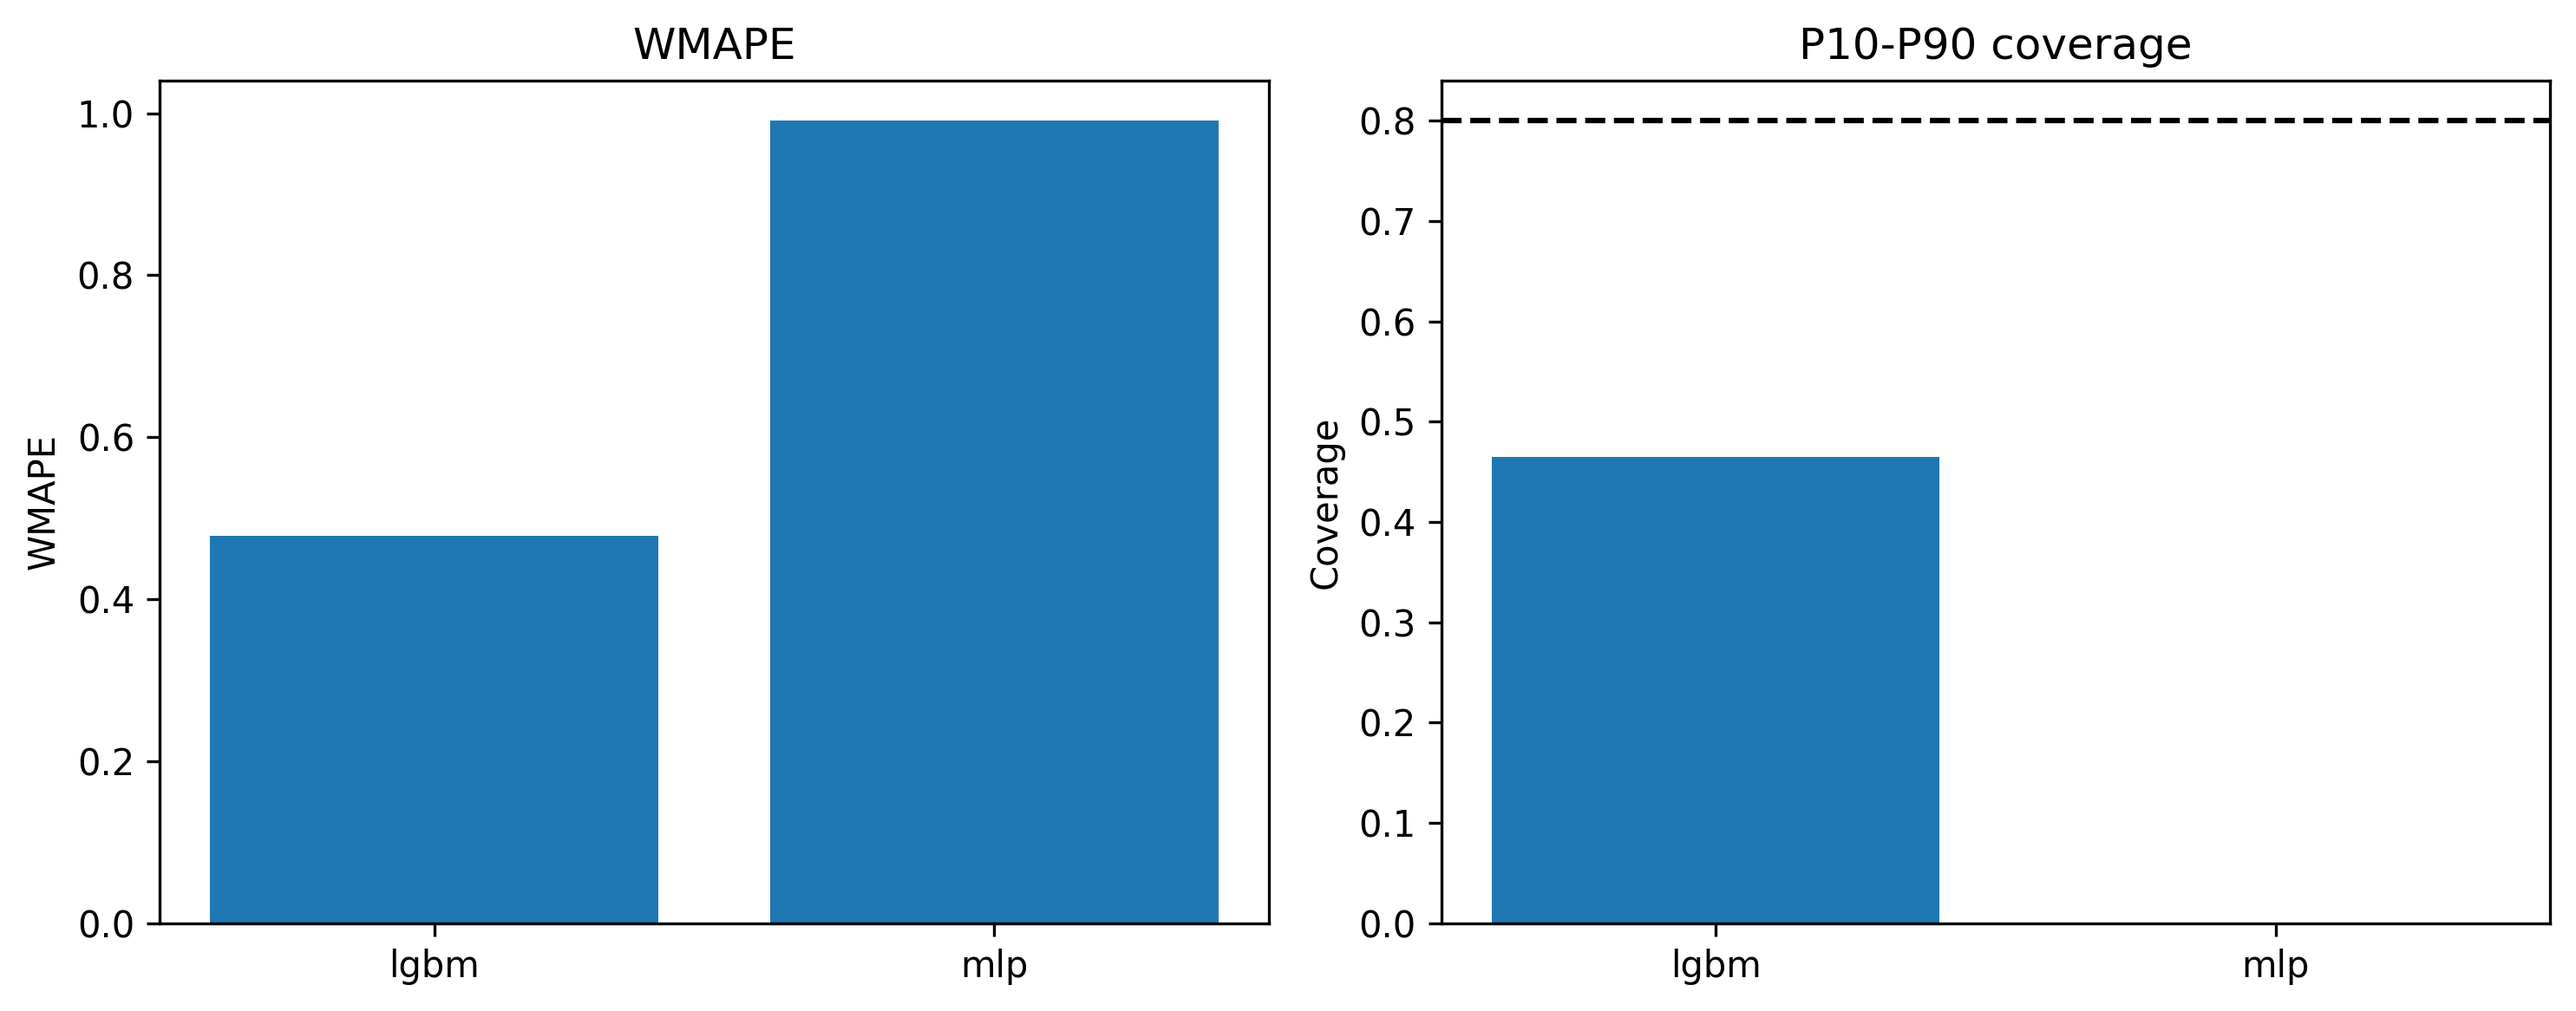
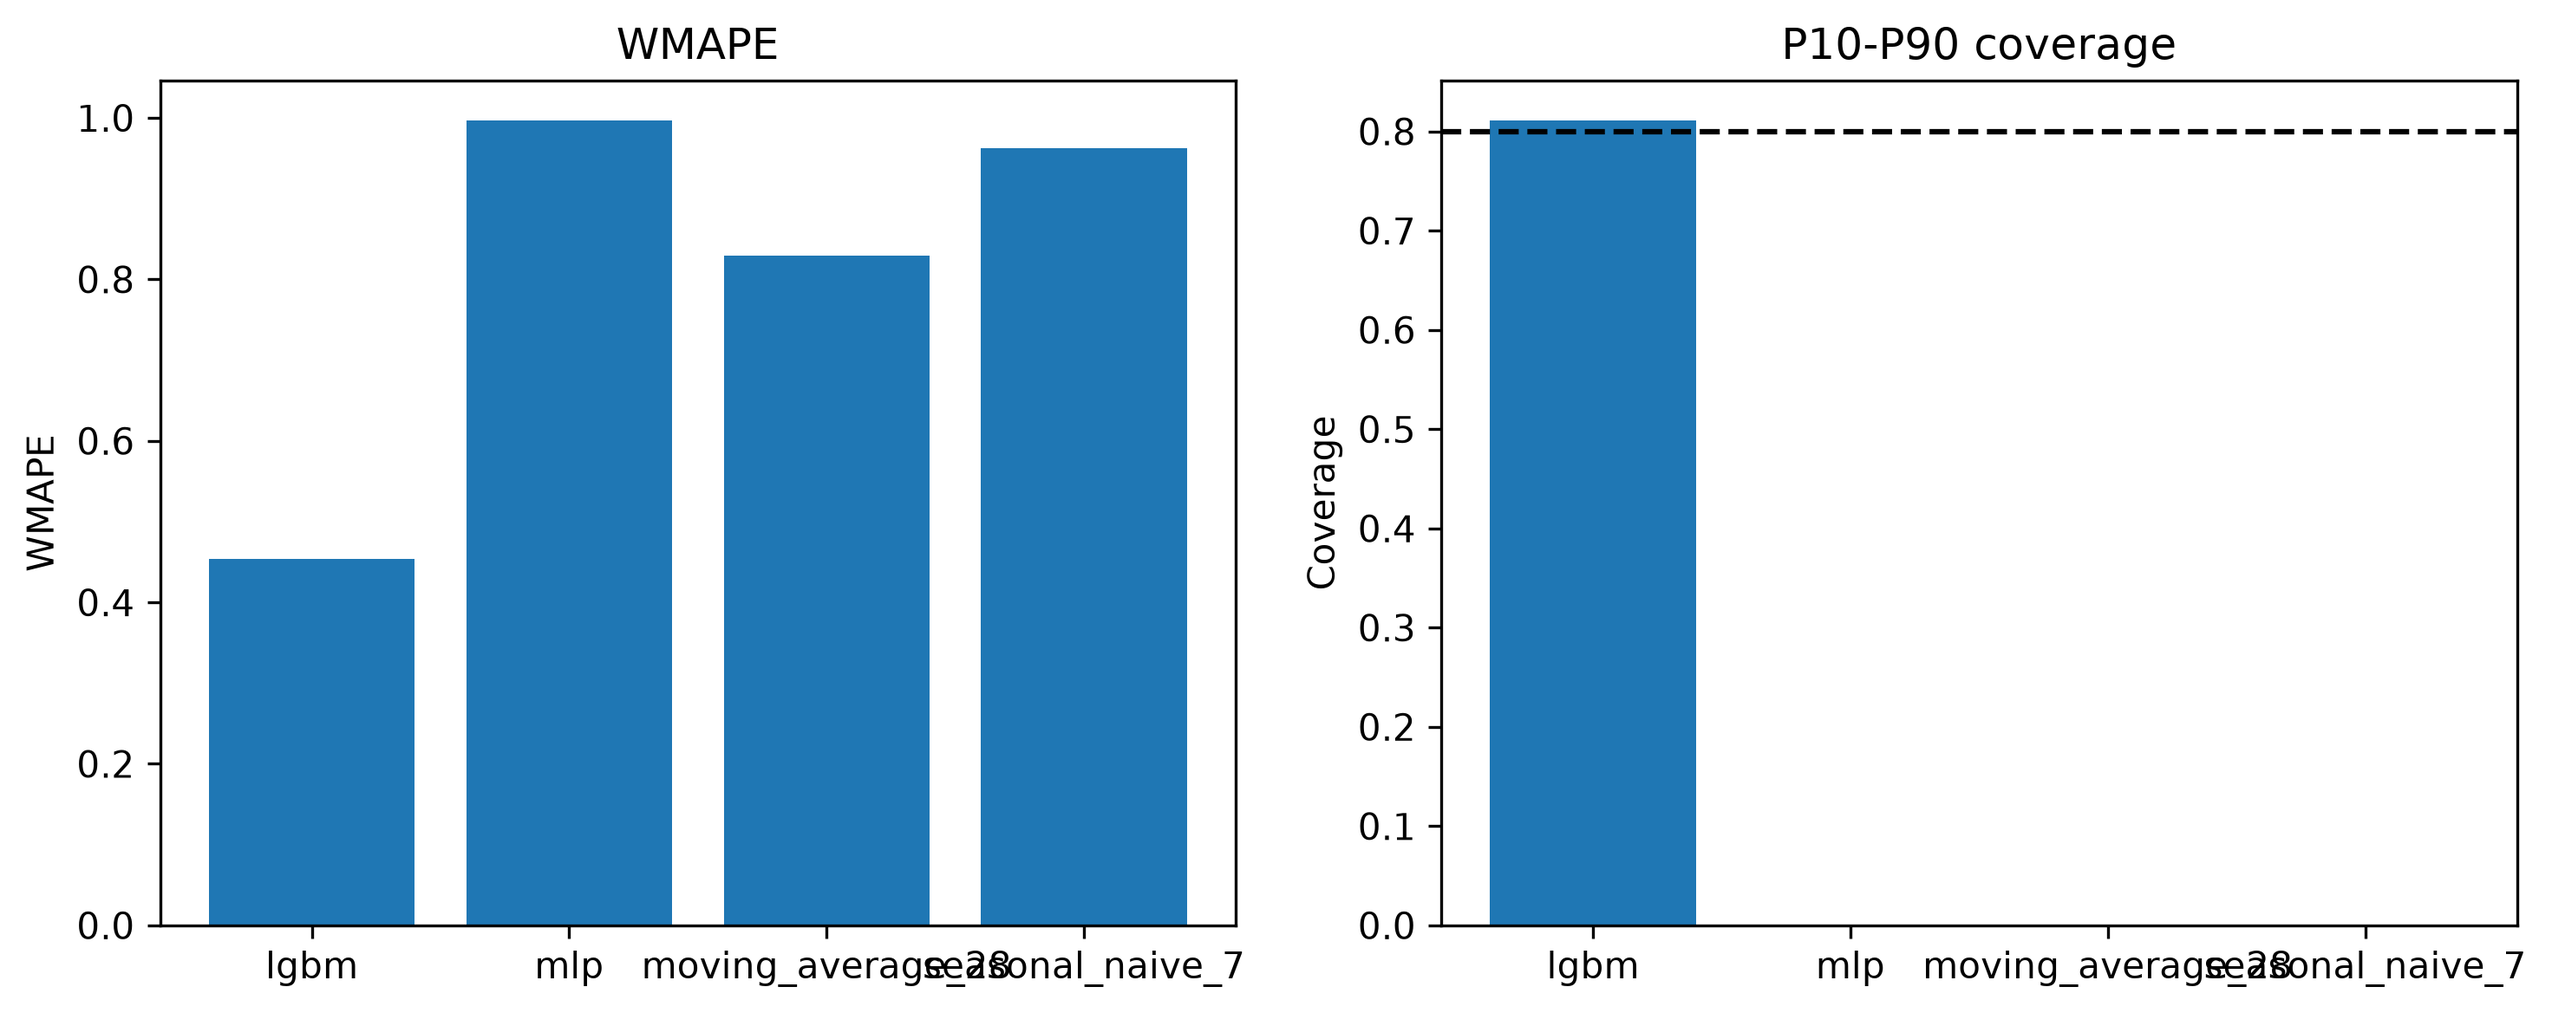
results: update Pipeline B evaluation metrics and stockout classification

diff --git a/results/phase4/subgroup_metrics_B.tex b/results/phase4/subgroup_metrics_B.tex
@@ -5,52 +5,78 @@
 \toprule
 subgroup & value & rows & wmape & bias & coverage & stockout\_alert\_recall & coverage\_flag & model \\
 \midrule
-store & 1 & 4500 & 0.4306 & -20.2650 & 0.5040 & NaN & True & lgbm \\
-store & 2 & 4500 & 0.4924 & -29.7375 & 0.3958 & NaN & True & lgbm \\
-store & 3 & 4500 & 0.5500 & -38.4077 & 0.3222 & NaN & True & lgbm \\
-store & 4 & 4500 & 0.5001 & -30.7288 & 0.3856 & NaN & True & lgbm \\
-store & 5 & 4500 & 0.4674 & -26.2001 & 0.4244 & NaN & True & lgbm \\
-store & 6 & 4500 & 0.4243 & -16.2501 & 0.5936 & NaN & True & lgbm \\
-store & 7 & 4500 & 0.4232 & -16.2144 & 0.5956 & NaN & True & lgbm \\
-store & 8 & 4500 & 0.3941 & -13.0360 & 0.6529 & NaN & True & lgbm \\
-store & 9 & 4500 & 0.5319 & -35.3452 & 0.3491 & NaN & True & lgbm \\
-store & 10 & 4500 & 0.4750 & -26.6181 & 0.4231 & NaN & True & lgbm \\
-item\_volume\_tier & high & 15030 & 0.4882 & -27.4069 & 0.4277 & NaN & True & lgbm \\
-item\_volume\_tier & low & 15030 & 0.4790 & -24.6368 & 0.4811 & NaN & True & lgbm \\
-item\_volume\_tier & medium & 14940 & 0.4665 & -23.7882 & 0.4852 & NaN & True & lgbm \\
-day\_of\_week & 0 & 6000 & 0.3795 & -14.7342 & 0.6213 & NaN & True & lgbm \\
-day\_of\_week & 1 & 6500 & 0.4430 & -21.5315 & 0.5191 & NaN & True & lgbm \\
-day\_of\_week & 2 & 6500 & 0.4453 & -21.8126 & 0.5086 & NaN & True & lgbm \\
-day\_of\_week & 3 & 6500 & 0.4717 & -25.1194 & 0.4617 & NaN & True & lgbm \\
-day\_of\_week & 4 & 6500 & 0.4964 & -27.5300 & 0.4288 & NaN & True & lgbm \\
-day\_of\_week & 5 & 6500 & 0.5206 & -31.0241 & 0.3738 & NaN & True & lgbm \\
-day\_of\_week & 6 & 6500 & 0.5435 & -34.3990 & 0.3511 & NaN & True & lgbm \\
-month & 10 & 14500 & 0.4968 & -28.0676 & 0.4229 & NaN & True & lgbm \\
-month & 11 & 15000 & 0.5275 & -32.3331 & 0.3773 & NaN & True & lgbm \\
-month & 12 & 15500 & 0.3900 & -15.8475 & 0.5881 & NaN & True & lgbm \\
-store & 1 & 4500 & 0.9896 & -49.0490 & 0.0000 & NaN & True & mlp \\
-store & 2 & 4500 & 0.9921 & -60.6980 & 0.0000 & NaN & True & mlp \\
-store & 3 & 4500 & 0.9927 & -69.6705 & 0.0000 & NaN & True & mlp \\
-store & 4 & 4500 & 0.9912 & -61.6663 & 0.0000 & NaN & True & mlp \\
-store & 5 & 4500 & 0.9913 & -56.8104 & 0.0000 & NaN & True & mlp \\
-store & 6 & 4500 & 0.9882 & -40.9889 & 0.0000 & NaN & True & mlp \\
-store & 7 & 4500 & 0.9875 & -40.9457 & 0.0000 & NaN & True & mlp \\
-store & 8 & 4500 & 0.9865 & -37.5137 & 0.0000 & NaN & True & mlp \\
-store & 9 & 4500 & 0.9924 & -66.7657 & 0.0000 & NaN & True & mlp \\
-store & 10 & 4500 & 0.9913 & -57.1098 & 0.0000 & NaN & True & mlp \\
-item\_volume\_tier & high & 15030 & 0.9912 & -57.0753 & 0.0000 & NaN & True & mlp \\
-item\_volume\_tier & low & 15030 & 0.9904 & -52.8274 & 0.0000 & NaN & True & mlp \\
-item\_volume\_tier & medium & 14940 & 0.9904 & -52.4527 & 0.0000 & NaN & True & mlp \\
-day\_of\_week & 0 & 6000 & 0.9886 & -42.8818 & 0.0000 & NaN & True & mlp \\
-day\_of\_week & 1 & 6500 & 0.9903 & -50.2913 & 0.0000 & NaN & True & mlp \\
-day\_of\_week & 2 & 6500 & 0.9904 & -50.5789 & 0.0000 & NaN & True & mlp \\
-day\_of\_week & 3 & 6500 & 0.9910 & -54.3472 & 0.0000 & NaN & True & mlp \\
-day\_of\_week & 4 & 6500 & 0.9913 & -56.4667 & 0.0000 & NaN & True & mlp \\
-day\_of\_week & 5 & 6500 & 0.9910 & -59.9806 & 0.0000 & NaN & True & mlp \\
-day\_of\_week & 6 & 6500 & 0.9913 & -63.4415 & 0.0000 & NaN & True & mlp \\
-month & 10 & 14500 & 0.9913 & -57.0444 & 0.0000 & NaN & True & mlp \\
-month & 11 & 15000 & 0.9918 & -61.4132 & 0.0000 & NaN & True & mlp \\
-month & 12 & 15500 & 0.9884 & -44.3316 & 0.0000 & NaN & True & mlp \\
+store & 1 & 900 & 0.4280 & -1.5345 & 0.8256 & NaN & False & lgbm \\
+store & 2 & 900 & 0.4519 & -0.6606 & 0.8167 & NaN & False & lgbm \\
+store & 3 & 900 & 0.4533 & -0.3965 & 0.8078 & NaN & False & lgbm \\
+store & 4 & 900 & 0.4702 & 1.4615 & 0.8056 & NaN & False & lgbm \\
+store & 5 & 900 & 0.4668 & 0.5093 & 0.7978 & NaN & False & lgbm \\
+item\_volume\_tier & high & 1530 & 0.4705 & 2.1130 & 0.7993 & NaN & False & lgbm \\
+item\_volume\_tier & low & 1530 & 0.4448 & -1.5289 & 0.8052 & NaN & False & lgbm \\
+item\_volume\_tier & medium & 1440 & 0.4466 & -1.0087 & 0.8285 & NaN & False & lgbm \\
+day\_of\_week & 0 & 650 & 0.4616 & -0.7521 & 0.8092 & NaN & False & lgbm \\
+day\_of\_week & 1 & 650 & 0.4677 & 1.4729 & 0.7938 & NaN & False & lgbm \\
+day\_of\_week & 2 & 600 & 0.4617 & 2.6586 & 0.8217 & NaN & False & lgbm \\
+day\_of\_week & 3 & 650 & 0.4353 & 0.0027 & 0.8200 & NaN & False & lgbm \\
+day\_of\_week & 4 & 650 & 0.4358 & -2.1698 & 0.8215 & NaN & False & lgbm \\
+day\_of\_week & 5 & 650 & 0.4623 & -1.3356 & 0.7908 & NaN & False & lgbm \\
+day\_of\_week & 6 & 650 & 0.4543 & -0.5319 & 0.8185 & NaN & False & lgbm \\
+month & 10 & 1450 & 0.4445 & -1.2634 & 0.8172 & NaN & False & lgbm \\
+month & 11 & 1500 & 0.4522 & -0.3443 & 0.8100 & NaN & False & lgbm \\
+month & 12 & 1550 & 0.4647 & 1.1546 & 0.8052 & NaN & False & lgbm \\
+store & 1 & 900 & 0.9965 & -105.1304 & 0.0000 & NaN & True & mlp \\
+store & 2 & 900 & 0.9965 & -104.2455 & 0.0000 & NaN & True & mlp \\
+store & 3 & 900 & 0.9960 & -103.9123 & 0.0000 & NaN & True & mlp \\
+store & 4 & 900 & 0.9965 & -102.0834 & 0.0000 & NaN & True & mlp \\
+store & 5 & 900 & 0.9963 & -103.0489 & 0.0000 & NaN & True & mlp \\
+item\_volume\_tier & high & 1530 & 0.9963 & -101.4491 & 0.0000 & NaN & True & mlp \\
+item\_volume\_tier & low & 1530 & 0.9964 & -105.0812 & 0.0000 & NaN & True & mlp \\
+item\_volume\_tier & medium & 1440 & 0.9964 & -104.5743 & 0.0000 & NaN & True & mlp \\
+day\_of\_week & 0 & 650 & 0.9964 & -104.3269 & 0.0000 & NaN & True & mlp \\
+day\_of\_week & 1 & 650 & 0.9965 & -102.0845 & 0.0000 & NaN & True & mlp \\
+day\_of\_week & 2 & 600 & 0.9964 & -100.6703 & 0.0000 & NaN & True & mlp \\
+day\_of\_week & 3 & 650 & 0.9965 & -103.5671 & 0.0000 & NaN & True & mlp \\
+day\_of\_week & 4 & 650 & 0.9965 & -105.7546 & 0.0000 & NaN & True & mlp \\
+day\_of\_week & 5 & 650 & 0.9961 & -104.9757 & 0.0000 & NaN & True & mlp \\
+day\_of\_week & 6 & 650 & 0.9962 & -104.1777 & 0.0000 & NaN & True & mlp \\
+month & 10 & 1450 & 0.9965 & -104.7991 & 0.0000 & NaN & True & mlp \\
+month & 11 & 1500 & 0.9964 & -103.9203 & 0.0000 & NaN & True & mlp \\
+month & 12 & 1550 & 0.9962 & -102.4124 & 0.0000 & NaN & True & mlp \\
+store & 1 & 900 & 0.8240 & -72.2796 & 0.0000 & NaN & True & moving\_average\_28 \\
+store & 2 & 900 & 0.8384 & -69.9523 & 0.0011 & NaN & True & moving\_average\_28 \\
+store & 3 & 900 & 0.8232 & -70.3596 & 0.0000 & NaN & True & moving\_average\_28 \\
+store & 4 & 900 & 0.8132 & -68.4298 & 0.0011 & NaN & True & moving\_average\_28 \\
+store & 5 & 900 & 0.8504 & -70.6166 & 0.0000 & NaN & True & moving\_average\_28 \\
+item\_volume\_tier & high & 1530 & 0.8326 & -69.9728 & 0.0007 & NaN & True & moving\_average\_28 \\
+item\_volume\_tier & low & 1530 & 0.8253 & -70.1104 & 0.0000 & NaN & True & moving\_average\_28 \\
+item\_volume\_tier & medium & 1440 & 0.8318 & -70.9354 & 0.0007 & NaN & True & moving\_average\_28 \\
+day\_of\_week & 0 & 650 & 0.8286 & -71.1464 & 0.0000 & NaN & True & moving\_average\_28 \\
+day\_of\_week & 1 & 650 & 0.8254 & -68.7780 & 0.0000 & NaN & True & moving\_average\_28 \\
+day\_of\_week & 2 & 600 & 0.8169 & -64.7024 & 0.0000 & NaN & True & moving\_average\_28 \\
+day\_of\_week & 3 & 650 & 0.8333 & -70.8532 & 0.0000 & NaN & True & moving\_average\_28 \\
+day\_of\_week & 4 & 650 & 0.8208 & -73.0147 & 0.0015 & NaN & True & moving\_average\_28 \\
+day\_of\_week & 5 & 650 & 0.8449 & -72.1838 & 0.0015 & NaN & True & moving\_average\_28 \\
+day\_of\_week & 6 & 650 & 0.8379 & -71.1818 & 0.0000 & NaN & True & moving\_average\_28 \\
+month & 10 & 1450 & 0.4776 & -0.4718 & 0.0014 & NaN & True & moving\_average\_28 \\
+month & 11 & 1500 & 1.0000 & -104.3000 & 0.0000 & NaN & True & moving\_average\_28 \\
+month & 12 & 1550 & 1.0000 & -102.8000 & 0.0000 & NaN & True & moving\_average\_28 \\
+store & 1 & 900 & 0.9657 & -97.6256 & 0.0022 & NaN & True & seasonal\_naive\_7 \\
+store & 2 & 900 & 0.9691 & -95.5644 & 0.0011 & NaN & True & seasonal\_naive\_7 \\
+store & 3 & 900 & 0.9581 & -95.6456 & 0.0011 & NaN & True & seasonal\_naive\_7 \\
+store & 4 & 900 & 0.9580 & -94.0578 & 0.0000 & NaN & True & seasonal\_naive\_7 \\
+store & 5 & 900 & 0.9630 & -94.8689 & 0.0000 & NaN & True & seasonal\_naive\_7 \\
+item\_volume\_tier & high & 1530 & 0.9712 & -95.3105 & 0.0000 & NaN & True & seasonal\_naive\_7 \\
+item\_volume\_tier & low & 1530 & 0.9593 & -94.9033 & 0.0020 & NaN & True & seasonal\_naive\_7 \\
+item\_volume\_tier & medium & 1440 & 0.9577 & -96.4993 & 0.0007 & NaN & True & seasonal\_naive\_7 \\
+day\_of\_week & 0 & 650 & 0.9617 & -96.3108 & 0.0015 & NaN & True & seasonal\_naive\_7 \\
+day\_of\_week & 1 & 650 & 0.9552 & -93.4200 & 0.0015 & NaN & True & seasonal\_naive\_7 \\
+day\_of\_week & 2 & 600 & 0.9486 & -91.5367 & 0.0000 & NaN & True & seasonal\_naive\_7 \\
+day\_of\_week & 3 & 650 & 0.9619 & -95.6262 & 0.0000 & NaN & True & seasonal\_naive\_7 \\
+day\_of\_week & 4 & 650 & 0.9691 & -97.6415 & 0.0015 & NaN & True & seasonal\_naive\_7 \\
+day\_of\_week & 5 & 650 & 0.9696 & -97.4815 & 0.0000 & NaN & True & seasonal\_naive\_7 \\
+day\_of\_week & 6 & 650 & 0.9716 & -96.5415 & 0.0015 & NaN & True & seasonal\_naive\_7 \\
+month & 10 & 1450 & 0.8858 & -78.7559 & 0.0028 & NaN & True & seasonal\_naive\_7 \\
+month & 11 & 1500 & 1.0000 & -104.3000 & 0.0000 & NaN & True & seasonal\_naive\_7 \\
+month & 12 & 1550 & 1.0000 & -102.8000 & 0.0000 & NaN & True & seasonal\_naive\_7 \\
 \bottomrule
 \end{tabular}
 \end{table}

diff --git a/results/phase4/bias_gaps_B.tex b/results/phase4/bias_gaps_B.tex
@@ -5,14 +5,22 @@
 \toprule
 model & subgroup & best\_value & worst\_value & best\_wmape & worst\_wmape & wmape\_gap & best\_bias & worst\_bias & worst\_direction \\
 \midrule
-lgbm & day\_of\_week & 0 & 6 & 0.3795 & 0.5435 & 0.1639 & -14.7342 & -34.3990 & under \\
-lgbm & item\_volume\_tier & medium & high & 0.4665 & 0.4882 & 0.0217 & -23.7882 & -27.4069 & under \\
-lgbm & month & 12 & 11 & 0.3900 & 0.5275 & 0.1375 & -15.8475 & -32.3331 & under \\
-lgbm & store & 8 & 3 & 0.3941 & 0.5500 & 0.1559 & -13.0360 & -38.4077 & under \\
-mlp & day\_of\_week & 0 & 6 & 0.9886 & 0.9913 & 0.0027 & -42.8818 & -63.4415 & under \\
-mlp & item\_volume\_tier & low & high & 0.9904 & 0.9912 & 0.0008 & -52.8274 & -57.0753 & under \\
-mlp & month & 12 & 11 & 0.9884 & 0.9918 & 0.0033 & -44.3316 & -61.4132 & under \\
-mlp & store & 8 & 3 & 0.9865 & 0.9927 & 0.0061 & -37.5137 & -69.6705 & under \\
+lgbm & day\_of\_week & 3 & 1 & 0.4353 & 0.4677 & 0.0325 & 0.0027 & 1.4729 & over \\
+lgbm & item\_volume\_tier & low & high & 0.4448 & 0.4705 & 0.0257 & -1.5289 & 2.1130 & over \\
+lgbm & month & 10 & 12 & 0.4445 & 0.4647 & 0.0202 & -1.2634 & 1.1546 & over \\
+lgbm & store & 1 & 4 & 0.4280 & 0.4702 & 0.0422 & -1.5345 & 1.4615 & over \\
+mlp & day\_of\_week & 5 & 1 & 0.9961 & 0.9965 & 0.0004 & -104.9757 & -102.0845 & under \\
+mlp & item\_volume\_tier & high & low & 0.9963 & 0.9964 & 0.0002 & -101.4491 & -105.0812 & under \\
+mlp & month & 12 & 10 & 0.9962 & 0.9965 & 0.0003 & -102.4124 & -104.7991 & under \\
+mlp & store & 3 & 1 & 0.9960 & 0.9965 & 0.0005 & -103.9123 & -105.1304 & under \\
+moving\_average\_28 & day\_of\_week & 2 & 5 & 0.8169 & 0.8449 & 0.0280 & -64.7024 & -72.1838 & under \\
+moving\_average\_28 & item\_volume\_tier & low & high & 0.8253 & 0.8326 & 0.0073 & -70.1104 & -69.9728 & under \\
+moving\_average\_28 & month & 10 & 11 & 0.4776 & 1.0000 & 0.5224 & -0.4718 & -104.3000 & under \\
+moving\_average\_28 & store & 4 & 5 & 0.8132 & 0.8504 & 0.0371 & -68.4298 & -70.6166 & under \\
+seasonal\_naive\_7 & day\_of\_week & 2 & 6 & 0.9486 & 0.9716 & 0.0230 & -91.5367 & -96.5415 & under \\
+seasonal\_naive\_7 & item\_volume\_tier & medium & high & 0.9577 & 0.9712 & 0.0135 & -96.4993 & -95.3105 & under \\
+seasonal\_naive\_7 & month & 10 & 11 & 0.8858 & 1.0000 & 0.1142 & -78.7559 & -104.3000 & under \\
+seasonal\_naive\_7 & store & 4 & 2 & 0.9580 & 0.9691 & 0.0111 & -94.0578 & -95.5644 & under \\
 \bottomrule
 \end{tabular}
 \end{table}

diff --git a/results/phase4/metrics_B.tex b/results/phase4/metrics_B.tex
@@ -5,8 +5,10 @@
 \toprule
 pipeline & model & mae & rmse & wmape & bias & pinball\_p10 & pinball\_p50 & pinball\_p90 & coverage\_p10\_p90 & mean\_interval\_width \\
 \midrule
-B & lgbm & 26.1254 & 34.7554 & 0.4782 & -25.2803 & 4.0656 & 13.0627 & 12.6355 & 0.4646 & 34.3306 \\
-B & mlp & 54.1218 & 61.1426 & 0.9907 & -54.1218 & 5.4631 & 27.0609 & 47.4490 & 0.0000 & 1.9102 \\
+B & lgbm & 47.2361 & 54.6312 & 0.4539 & -0.1242 & 8.5044 & 23.6180 & 8.5909 & 0.8107 & 153.4705 \\
+B & mlp & 103.6841 & 117.1891 & 0.9964 & -103.6841 & 10.4062 & 51.8420 & 91.8197 & 0.0000 & 2.0399 \\
+B & moving\_average\_28 & 86.3580 & 102.3185 & 0.8299 & -70.3276 & 15.0480 & 43.1790 & 71.3100 & 0.0004 & 0.0000 \\
+B & seasonal\_naive\_7 & 100.1911 & 114.3727 & 0.9628 & -95.5524 & 11.8746 & 50.0956 & 88.3165 & 0.0009 & 0.0000 \\
 \bottomrule
 \end{tabular}
 \end{table}
